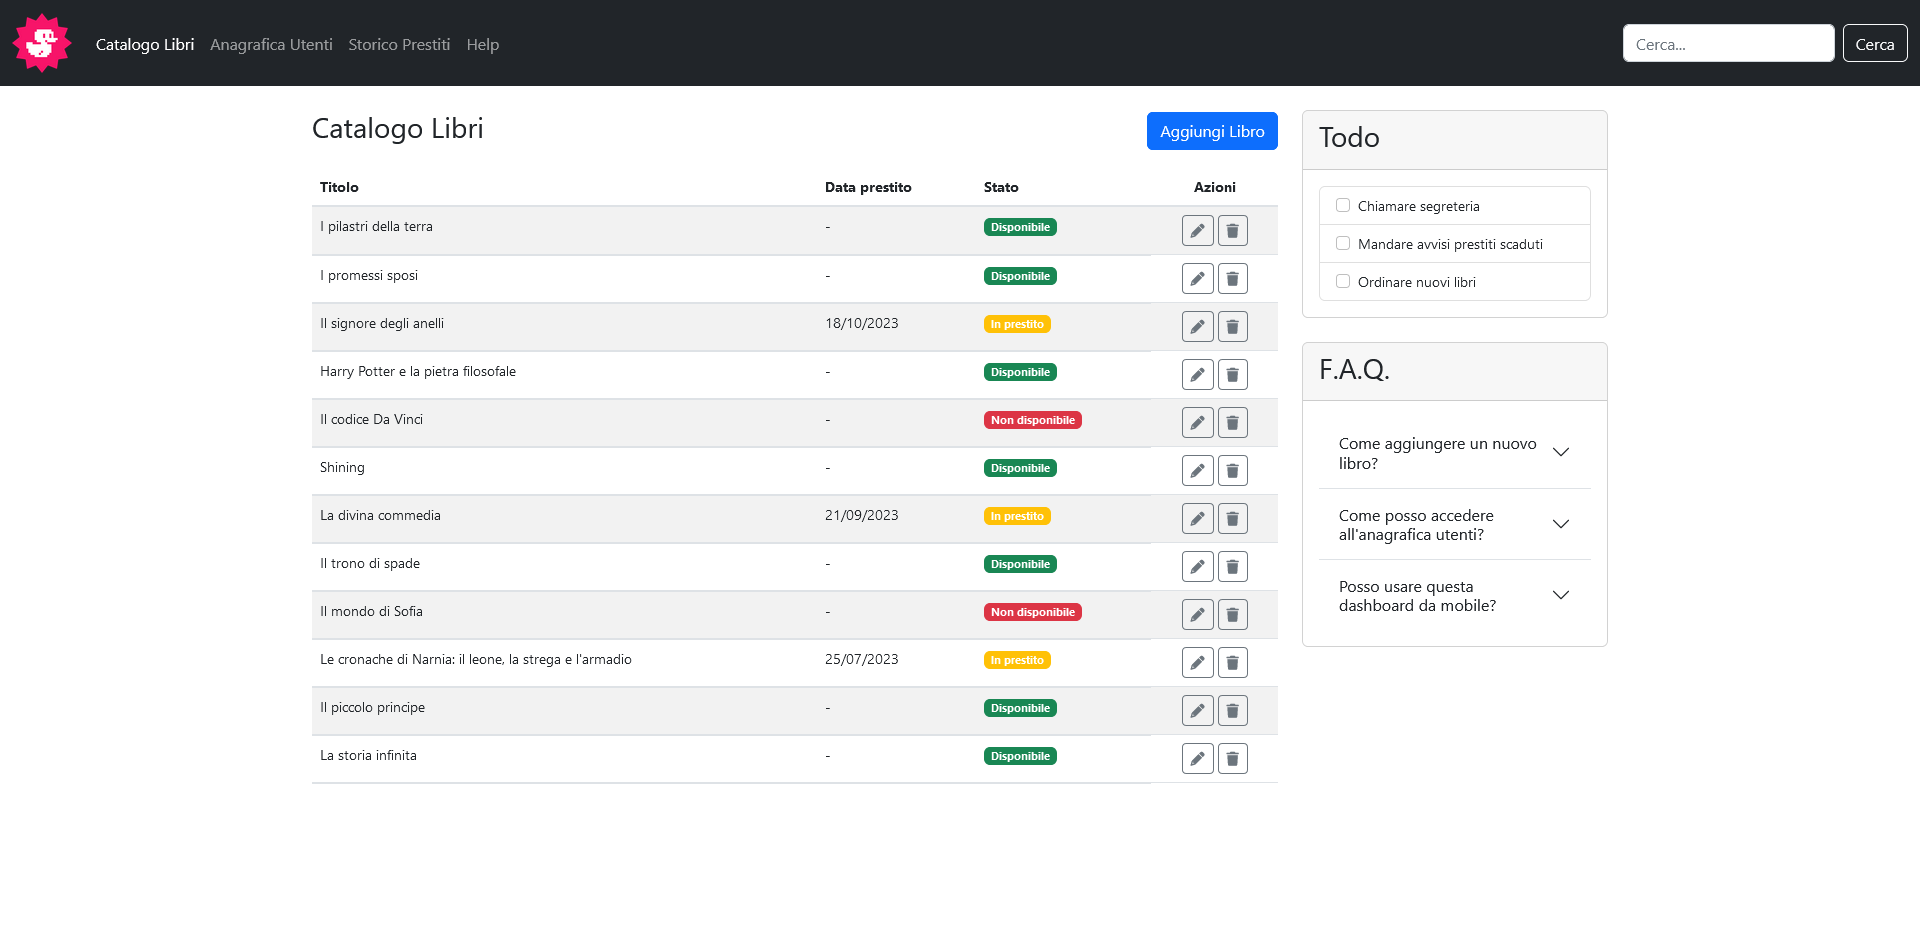
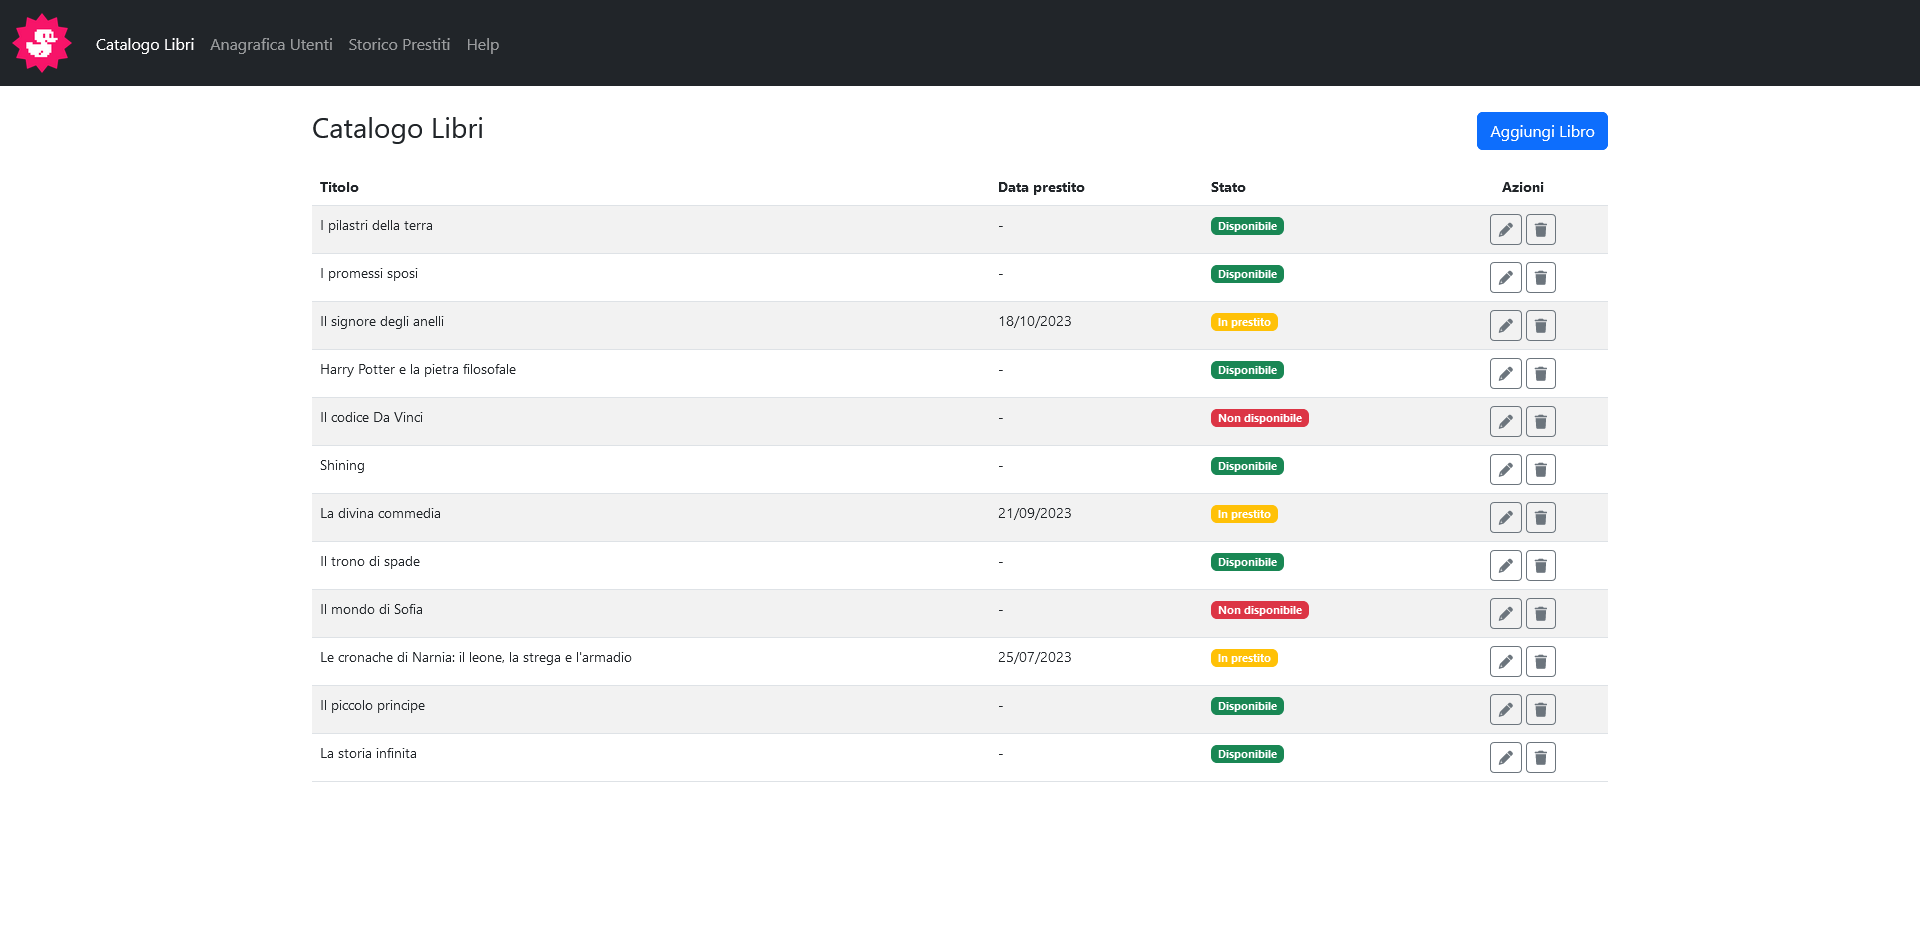
added table structure

diff --git a/index.html b/index.html
@@ -8,7 +8,7 @@
     <link rel="preconnect" href="https://fonts.gstatic.com" crossorigin>
     <link href="https://fonts.googleapis.com/css2?family=Roboto:wght@400;700&display=swap" rel="stylesheet">
     <!-- font awesome -->
-    
+    <link rel="stylesheet" href="https://cdnjs.cloudflare.com/ajax/libs/font-awesome/6.6.0/css/all.min.css" integrity="sha512-Kc323vGBEqzTmouAECnVceyQqyqdsSiqLQISBL29aUW4U/M7pSPA/gEUZQqv1cwx4OnYxTxve5UMg5GT6L4JJg==" crossorigin="anonymous" referrerpolicy="no-referrer" />
     <!-- Bootstrap css -->
     <link rel="stylesheet" href="https://cdnjs.cloudflare.com/ajax/libs/bootstrap/5.3.3/css/bootstrap.min.css" integrity="sha512-jnSuA4Ss2PkkikSOLtYs8BlYIeeIK1h99ty4YfvRPAlzr377vr3CXDb7sb7eEEBYjDtcYj+AjBH3FLv5uSJuXg==" crossorigin="anonymous" referrerpolicy="no-referrer" />
     <!-- My css -->
@@ -30,16 +30,16 @@
                 <div class="collapse navbar-collapse" id="navbarSupportedContent">
                     <ul class="navbar-nav me-auto mb-2 mb-lg-0">
                         <li class="nav-item">
-                            <a class="nav-link active" aria-current="page" href="#">Home</a>
+                            <a class="nav-link active" aria-current="page" href="#">Catalogo libri</a>
                         </li>
                         <li class="nav-item">
-                            <a class="nav-link" href="#">Link</a>
+                            <a class="nav-link" href="#">Nagrafica utenti</a>
                         </li>
                         <li class="nav-item">
-                            <a class="nav-link" aria-current="page" href="#">Home</a>
+                            <a class="nav-link" aria-current="page" href="#">Storico prestiti</a>
                         </li>
                         <li class="nav-item">
-                            <a class="nav-link" href="#">Link</a>
+                            <a class="nav-link" href="#">Help</a>
                         </li>
                     </ul>
                     <form class="d-flex" role="search">
@@ -52,34 +52,214 @@
     </header>
 
     <main class="container-md">
-        <div class="d-flex justify-content-between">
-            <div>Catalogo libri</div>
+        <div class="d-flex justify-content-between  py-4">
+            <div><h3>Catalogo libri</h3></div>
             <button type="button" class="btn btn-primary">Aggiungi Libro</button>
         </div>
         <table class="table table-striped table-hover">
             <thead>
               <tr>
-                <th scope="col">#</th>
-                <th scope="col">First</th>
-                <th scope="col">Last</th>
-                <th scope="col">Handle</th>
+                <th class="w-50">Titolo</th>
+                <th class="w-25">Data prestito</th>
+                <th class="w-25">Stato</th>
+                <th class="at-w10 text-center">Azioni</th>
               </tr>
             </thead>
+
             <tbody>
               <tr>
                 <td>Mark</td>
                 <td>Otto</td>
-                <td>@mdo</td>
-                <td>@mdo</td>
+                <td>
+                    <span class="badge text-bg-success">Disponibile</span>
+                </td>
+                <td class="d-flex justify-content-center gap-1">
+                    <button type="button" class="btn btn-primary">
+                        <i class="fa-solid fa-pen"></i>
+                    </button>
+                    <button type="button" class="btn btn-primary">
+                        <i class="fa-solid fa-trash-can"></i>
+                    </button>
+                </td>
               </tr>
+
               <tr>
-                <td>Jacob</td>
-                <td>Thornton</td>
-                <td>@fat</td>
-                <td>@mdo</td>
+                <td>Mark</td>
+                <td>Otto</td>
+                <td>
+                    <span class="badge text-bg-success">Disponibile</span>
+                </td>
+                <td class="d-flex justify-content-center gap-1">
+                    <button type="button" class="btn btn-primary">
+                        <i class="fa-solid fa-pen"></i>
+                    </button>
+                    <button type="button" class="btn btn-primary">
+                        <i class="fa-solid fa-trash-can"></i>
+                    </button>
+                </td>
+              </tr>
+
+              <tr>
+                <td>Mark</td>
+                <td>Otto</td>
+                <td>
+                    <span class="badge text-bg-success">Disponibile</span>
+                </td>
+                <td class="d-flex justify-content-center gap-1">
+                    <button type="button" class="btn btn-primary">
+                        <i class="fa-solid fa-pen"></i>
+                    </button>
+                    <button type="button" class="btn btn-primary">
+                        <i class="fa-solid fa-trash-can"></i>
+                    </button>
+                </td>
+              </tr>
+
+              <tr>
+                <td>Mark</td>
+                <td>Otto</td>
+                <td>
+                    <span class="badge text-bg-success">Disponibile</span>
+                </td>
+                <td class="d-flex justify-content-center gap-1">
+                    <button type="button" class="btn btn-primary">
+                        <i class="fa-solid fa-pen"></i>
+                    </button>
+                    <button type="button" class="btn btn-primary">
+                        <i class="fa-solid fa-trash-can"></i>
+                    </button>
+                </td>
+              </tr>
+
+              <tr>
+                <td>Mark</td>
+                <td>Otto</td>
+                <td>
+                    <span class="badge text-bg-success">Disponibile</span>
+                </td>
+                <td class="d-flex justify-content-center gap-1">
+                    <button type="button" class="btn btn-primary">
+                        <i class="fa-solid fa-pen"></i>
+                    </button>
+                    <button type="button" class="btn btn-primary">
+                        <i class="fa-solid fa-trash-can"></i>
+                    </button>
+                </td>
+              </tr>
+
+              <tr>
+                <td>Mark</td>
+                <td>Otto</td>
+                <td>
+                    <span class="badge text-bg-success">Disponibile</span>
+                </td>
+                <td class="d-flex justify-content-center gap-1">
+                    <button type="button" class="btn btn-primary">
+                        <i class="fa-solid fa-pen"></i>
+                    </button>
+                    <button type="button" class="btn btn-primary">
+                        <i class="fa-solid fa-trash-can"></i>
+                    </button>
+                </td>
+              </tr>
+
+              <tr>
+                <td>Mark</td>
+                <td>Otto</td>
+                <td>
+                    <span class="badge text-bg-success">Disponibile</span>
+                </td>
+                <td class="d-flex justify-content-center gap-1">
+                    <button type="button" class="btn btn-primary">
+                        <i class="fa-solid fa-pen"></i>
+                    </button>
+                    <button type="button" class="btn btn-primary">
+                        <i class="fa-solid fa-trash-can"></i>
+                    </button>
+                </td>
+              </tr>
+
+              <tr>
+                <td>Mark</td>
+                <td>Otto</td>
+                <td>
+                    <span class="badge text-bg-success">Disponibile</span>
+                </td>
+                <td class="d-flex justify-content-center gap-1">
+                    <button type="button" class="btn btn-primary">
+                        <i class="fa-solid fa-pen"></i>
+                    </button>
+                    <button type="button" class="btn btn-primary">
+                        <i class="fa-solid fa-trash-can"></i>
+                    </button>
+                </td>
+              </tr>
+
+              <tr>
+                <td>Mark</td>
+                <td>Otto</td>
+                <td>
+                    <span class="badge text-bg-success">Disponibile</span>
+                </td>
+                <td class="d-flex justify-content-center gap-1">
+                    <button type="button" class="btn btn-primary">
+                        <i class="fa-solid fa-pen"></i>
+                    </button>
+                    <button type="button" class="btn btn-primary">
+                        <i class="fa-solid fa-trash-can"></i>
+                    </button>
+                </td>
+              </tr>
+
+              <tr>
+                <td>Mark</td>
+                <td>Otto</td>
+                <td>
+                    <span class="badge text-bg-success">Disponibile</span>
+                </td>
+                <td class="d-flex justify-content-center gap-1">
+                    <button type="button" class="btn btn-primary">
+                        <i class="fa-solid fa-pen"></i>
+                    </button>
+                    <button type="button" class="btn btn-primary">
+                        <i class="fa-solid fa-trash-can"></i>
+                    </button>
+                </td>
+              </tr>
+
+              <tr>
+                <td>Mark</td>
+                <td>Otto</td>
+                <td>
+                    <span class="badge text-bg-success">Disponibile</span>
+                </td>
+                <td class="d-flex justify-content-center gap-1">
+                    <button type="button" class="btn btn-primary">
+                        <i class="fa-solid fa-pen"></i>
+                    </button>
+                    <button type="button" class="btn btn-primary">
+                        <i class="fa-solid fa-trash-can"></i>
+                    </button>
+                </td>
+              </tr>
+
+              <tr>
+                <td>Mark</td>
+                <td>Otto</td>
+                <td>
+                    <span class="badge text-bg-success">Disponibile</span>
+                </td>
+                <td class="d-flex justify-content-center gap-1">
+                    <button type="button" class="btn btn-primary">
+                        <i class="fa-solid fa-pen"></i>
+                    </button>
+                    <button type="button" class="btn btn-primary">
+                        <i class="fa-solid fa-trash-can"></i>
+                    </button>
+                </td>
               </tr>
             </tbody>
-          </table>
+        </table>
     </main>
     <script src="https://cdnjs.cloudflare.com/ajax/libs/bootstrap/5.3.3/js/bootstrap.min.js"
         integrity="sha512-ykZ1QQr0Jy/4ZkvKuqWn4iF3lqPZyij9iRv6sGqLRdTPkY69YX6+7wvVGmsdBbiIfN/8OdsI7HABjvEok6ZopQ=="
